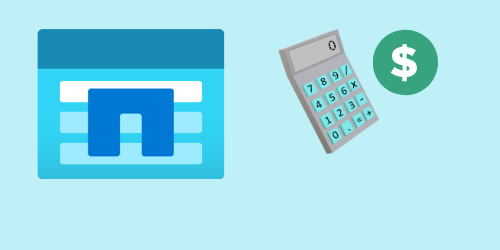
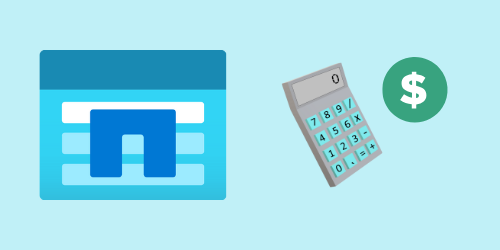
updated graphic again

Changed region(s): [[0.06, 0.112, 0.48, 0.812], [0.54, 0.112, 0.9, 0.756]]

diff --git a/docs/index.html b/docs/index.html
@@ -12,7 +12,7 @@
     <div class="row row-cols-xxl-4 g-4 p-2">
       <div class="col">
         <div class="card" style="width: 18rem;">
-          <img src="./img/effectiveprice.png" class="card-img-top" alt="...">
+          <img src="./img/effectivecalc.png" class="card-img-top" alt="...">
           <div class="card-body">
             <h5 class="card-title">Azure NetApp Files effective price estimator</h5>
             <p class="card-text">This tool is designed to estimate the potential savings when enabling Azure NetApp Files storage with cool access, reserved capacity for Azure NetApp Files, and Azure NetApp Files snapshots.</p><br>
